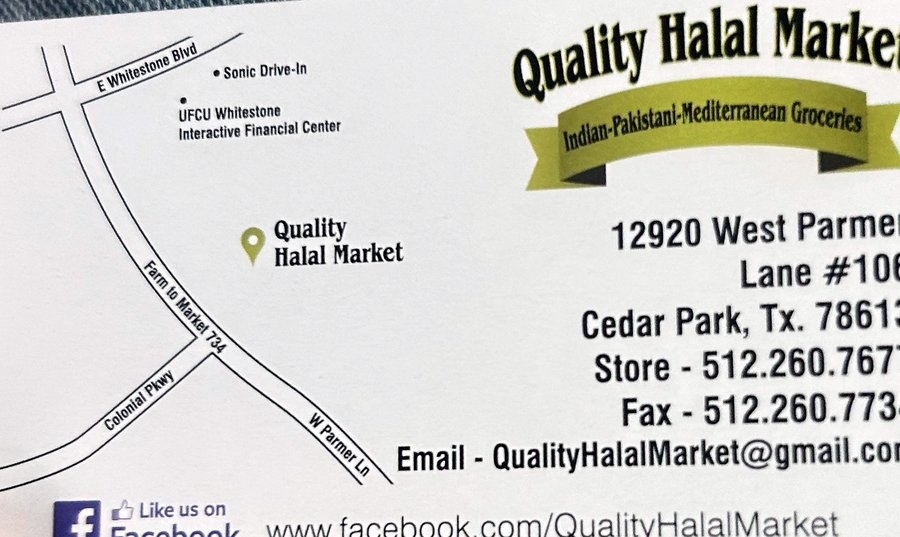
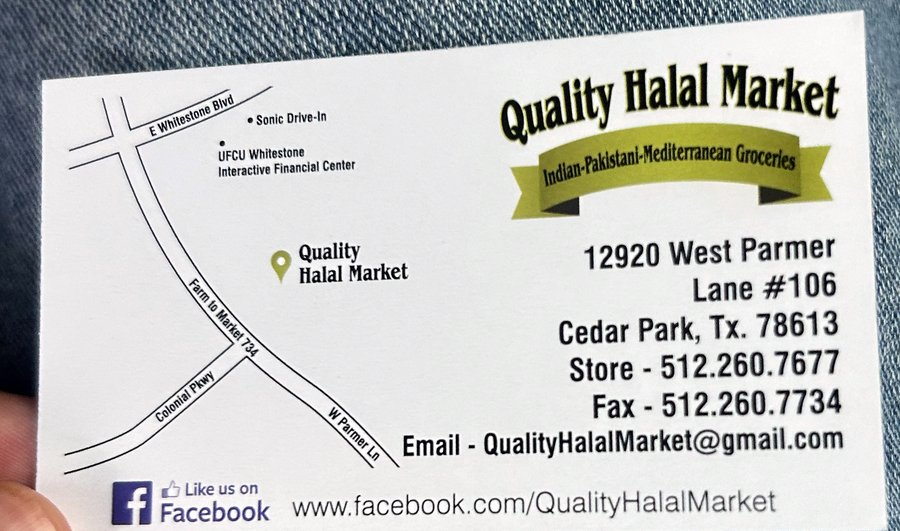
Fix cropped card backs: switch to object-fit contain, size each card to its own photo
- object-fit: cover was cropping real content off the edges of both back
  faces (SSC's "FREE QUOTE" banner, QHM's phone/fax/email column) since
  the shared 340x180 box didn't match either photo's actual proportions.
  Switched to object-fit: contain so nothing is ever cropped, and gave
  each card its own box size (card-ssc: 460x148, card-qhm: 340x204)
  matched to that card's own front/back aspect ratios.
- Re-cropped the QHM back photo from scratch — a chain of incremental
  "trim a bit more denim" crops had compounded into cutting into the
  actual address/phone/email text on the right edge. Recropped directly
  off the rotated source with correct margins so all text is intact.
- Drag-to-rotate interactivity is untouched (still the same pointer
  handler); verified pointerdown/pointermove/dragging state still fire
  correctly against the resized cards.

diff --git a/index.html b/index.html
@@ -274,6 +274,11 @@
     will-change: transform;
     transform: rotateX(-8deg) rotateY(18deg);
   }
+  /* Sized to each card's own front/back photo proportions so nothing gets
+     cropped — object-fit: contain still needs a box in the right ballpark
+     or one face ends up letterboxed to a sliver. */
+  .card3d.card-ssc { width: 460px; height: 148px; }
+  .card3d.card-qhm { width: 340px; height: 204px; }
   .card3d.dragging { cursor: grabbing; }
   .card3d-face {
     position: absolute;
@@ -304,7 +309,7 @@
   .card3d-photo {
     width: 100%;
     height: 100%;
-    object-fit: cover;
+    object-fit: contain;
     object-position: center;
     display: block;
     position: relative;
@@ -1035,9 +1040,9 @@
   <div class="reveal flex flex-wrap justify-center gap-x-14 gap-y-10 py-4">
     <div class="flex flex-col items-center gap-3">
       <div class="card3d-stage">
-        <div class="card3d">
+        <div class="card3d card-ssc">
           <div class="card3d-face card3d-front photo">
-            <img src="assets/portfolio/ssc-card-front.jpg" alt="Solid State Construction business card front" class="card3d-photo" style="object-position: 10% center;">
+            <img src="assets/portfolio/ssc-card-front.jpg" alt="Solid State Construction business card front" class="card3d-photo">
             <div class="card3d-sheen"></div>
           </div>
           <div class="card3d-face card3d-back photo">
@@ -1051,7 +1056,7 @@
 
     <div class="flex flex-col items-center gap-3">
       <div class="card3d-stage">
-        <div class="card3d">
+        <div class="card3d card-qhm">
           <div class="card3d-face card3d-front photo">
             <img src="assets/portfolio/qhm-card-front.jpg" alt="Quality Halal Market business card front" class="card3d-photo">
             <div class="card3d-sheen"></div>
